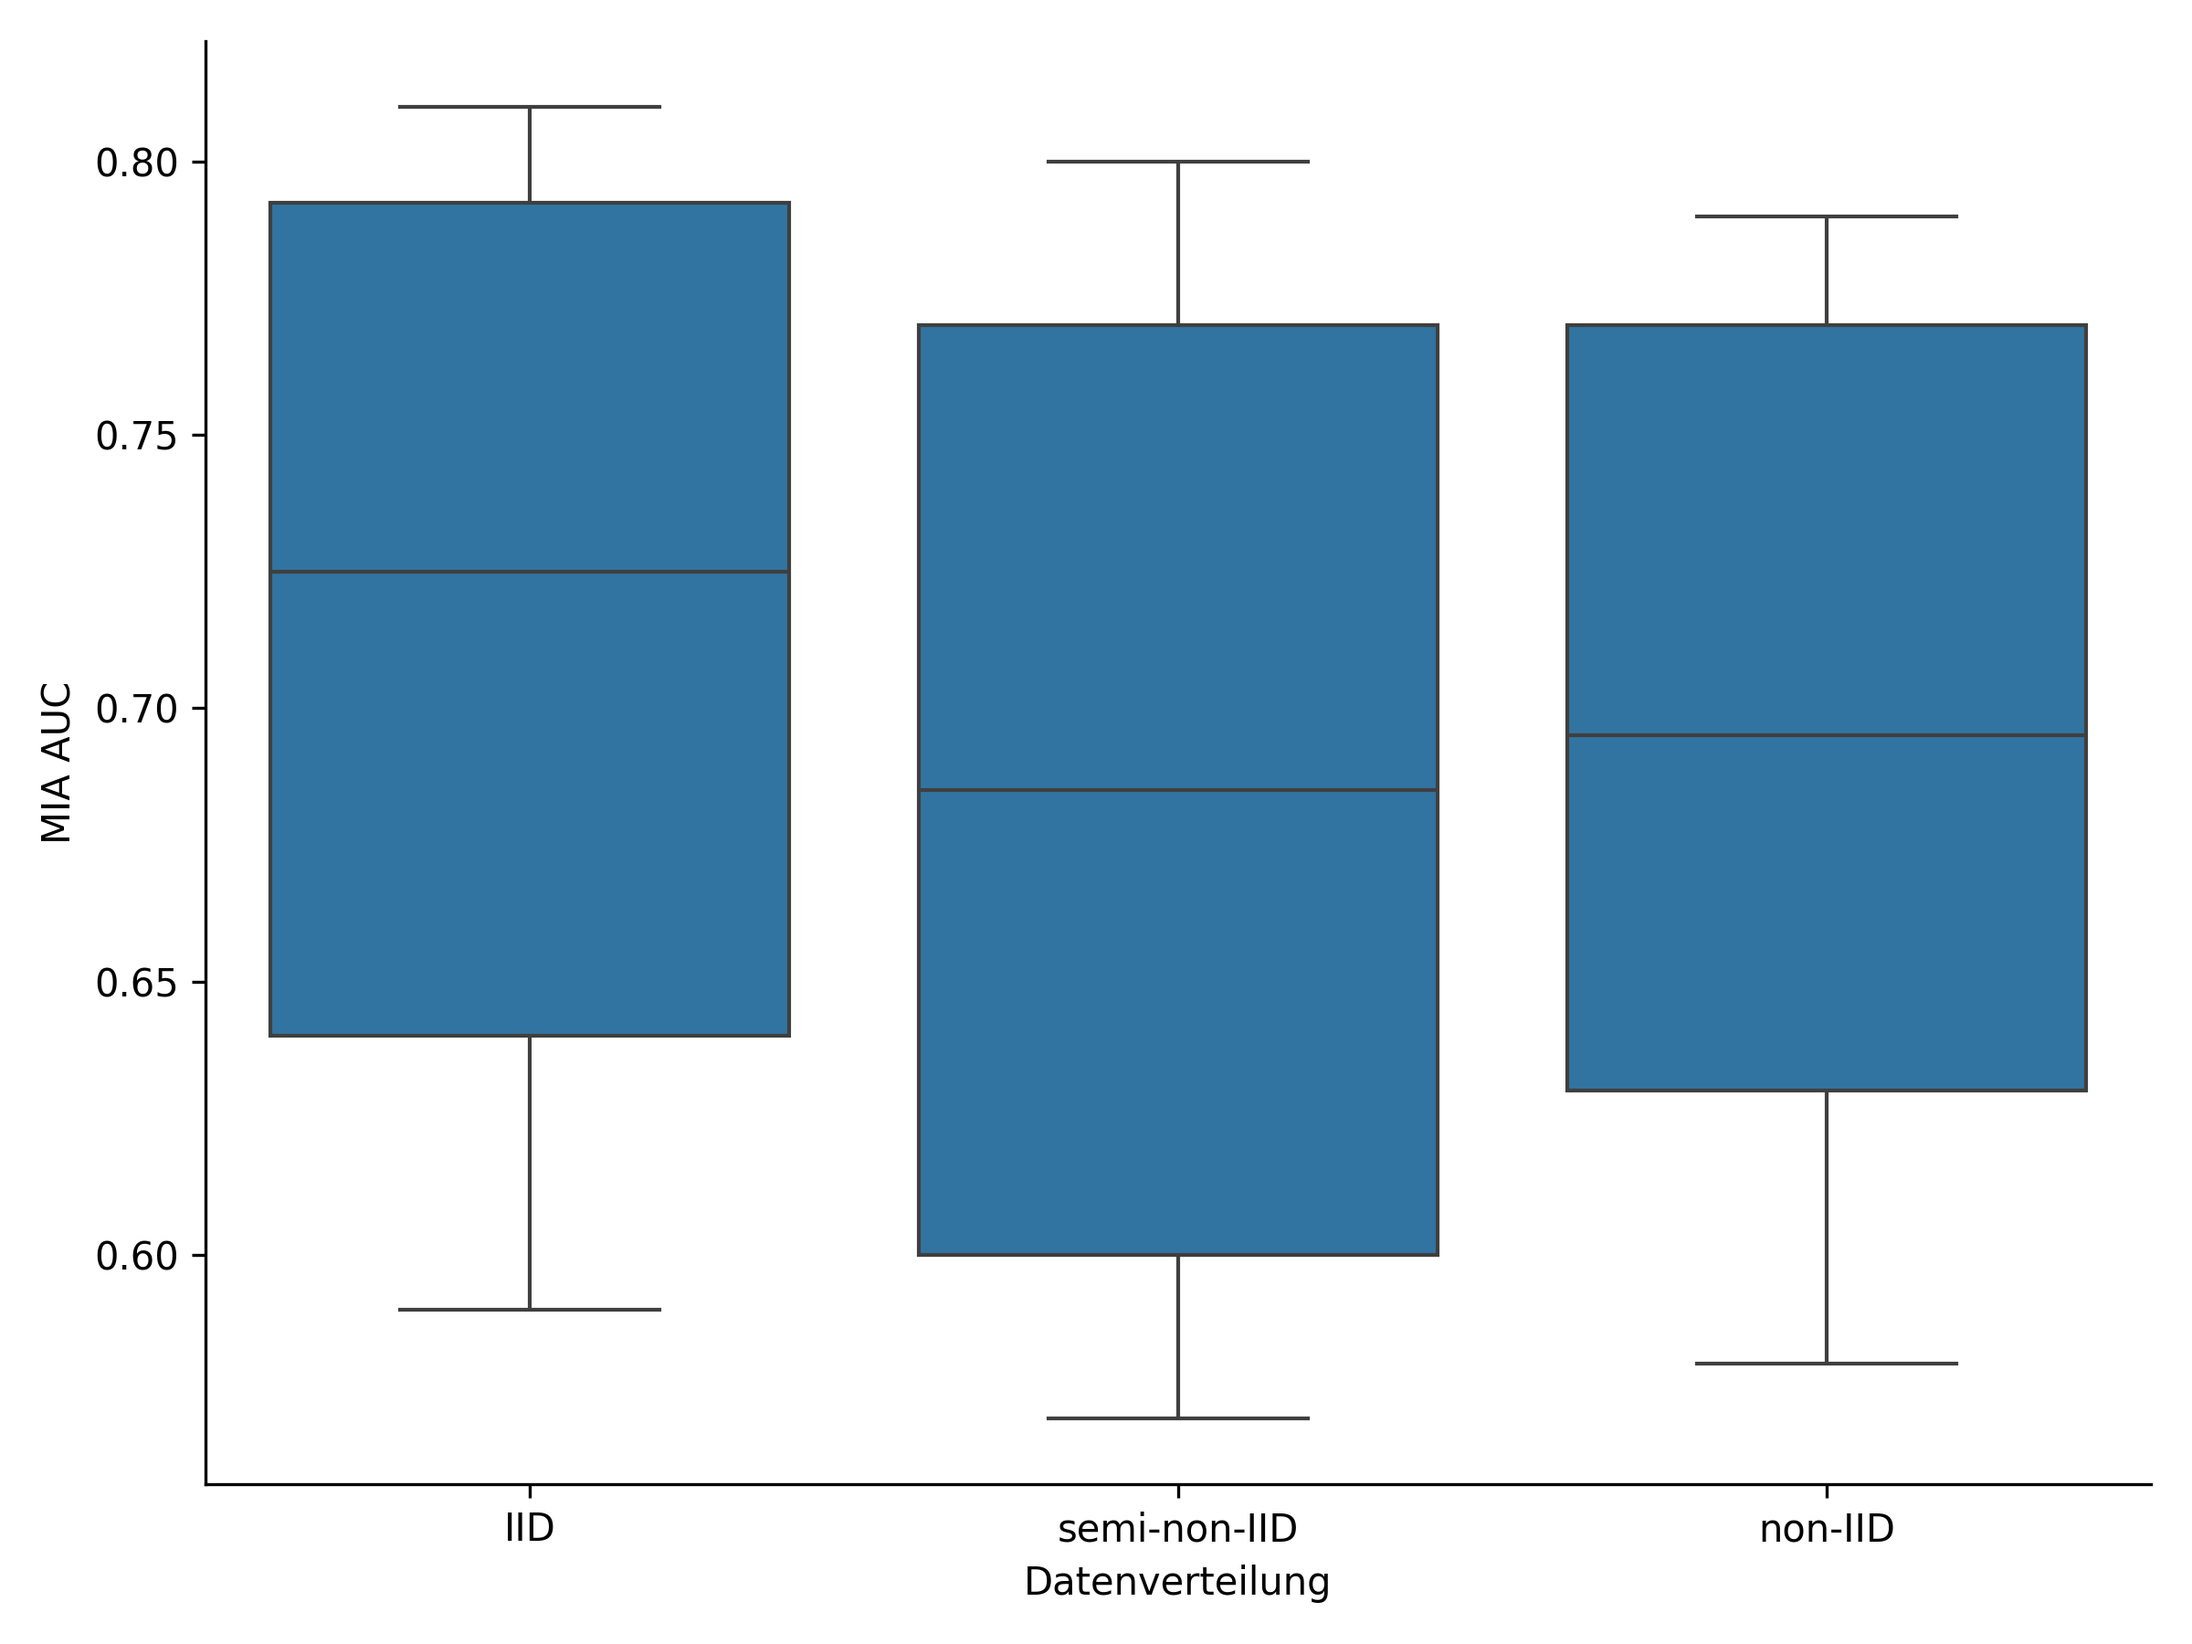
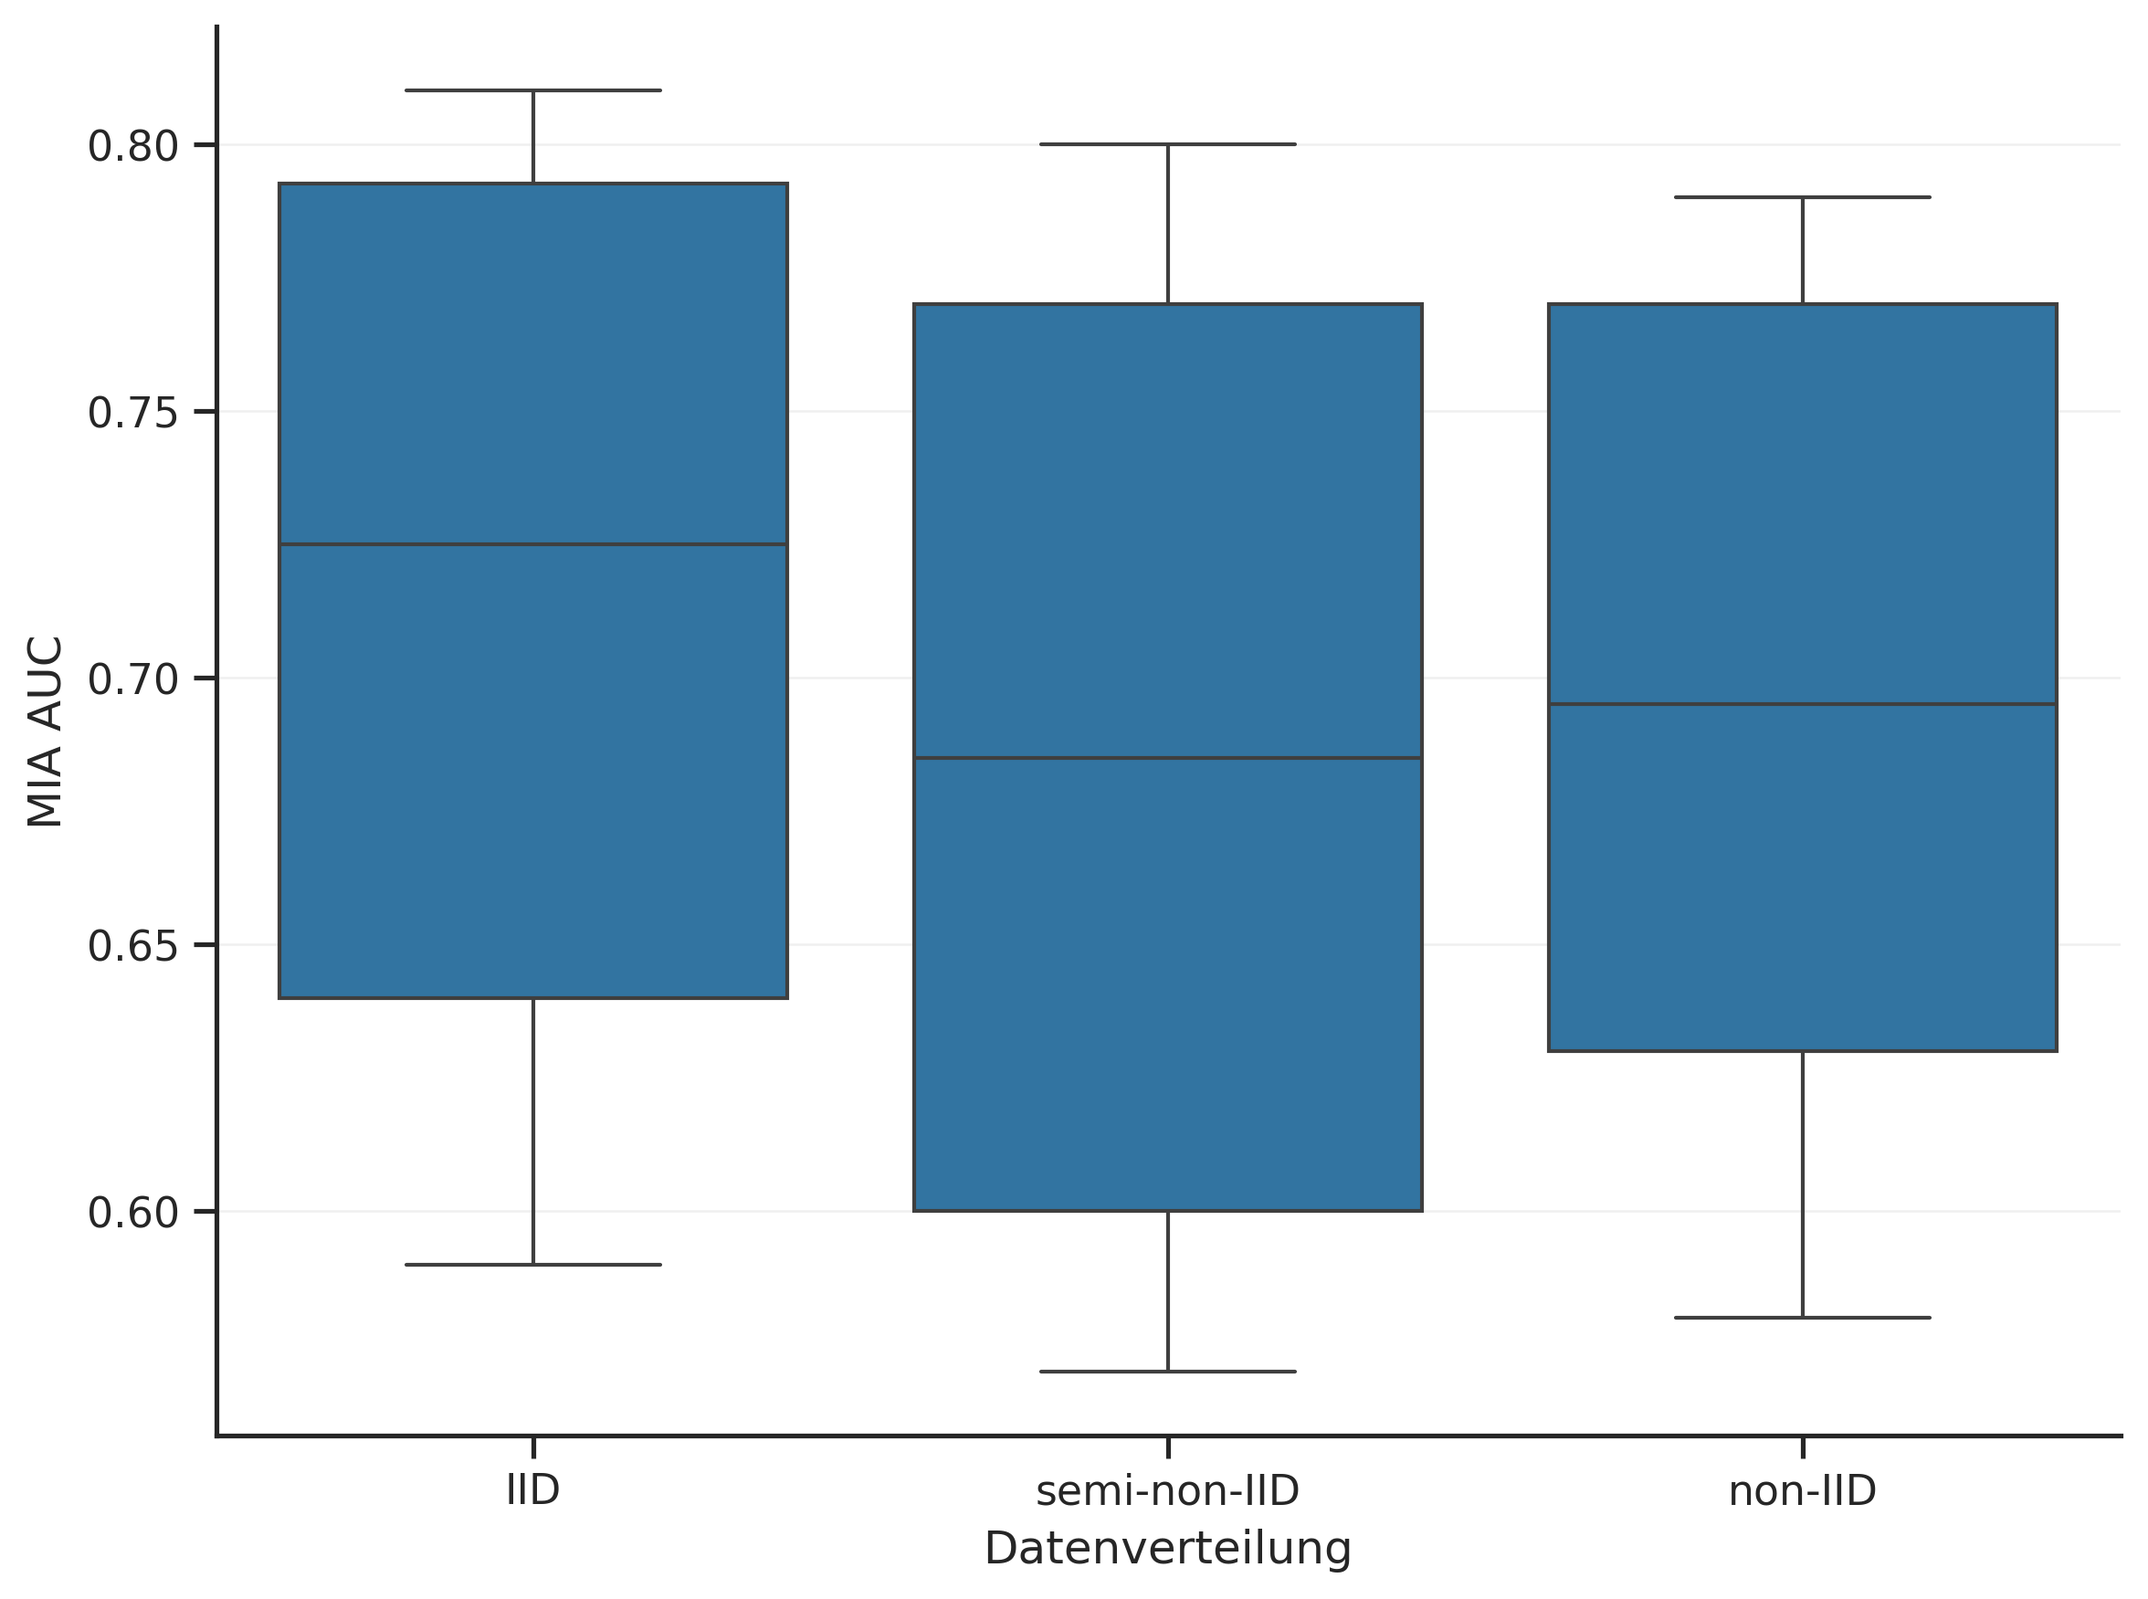
- add global figure style config - update figure styles

diff --git a/experiments_data_analysis/create_figures/main_experiments/create_figures_utils.py b/experiments_data_analysis/create_figures/main_experiments/create_figures_utils.py
@@ -7,7 +7,6 @@ from pathlib import Path
 
 def plot_parameter_per_model(dataset: pd.DataFrame, x_value: Col, x_label: str, figures_dir: Path,
                              order: list[str] = None) -> None:
-    plt.figure(figsize=(12, 5))
     g = sns.catplot(
         data=dataset,
         x=x_value,
@@ -29,18 +28,19 @@ def plot_parameter_per_model(dataset: pd.DataFrame, x_value: Col, x_label: str, 
     for ax, model_name in zip(g.axes.flat, g.col_names):
         nice_title = new_titles.get(model_name, model_name)
         ax.set_title(nice_title)
-    plt.savefig(figures_dir / f"per_model_{x_value.value}.png", dpi=300)
+        ax.grid(axis="y", linestyle="-", linewidth=0.6, alpha=0.3)
+
+    g.figure.savefig(figures_dir / f"per_model_{x_value.value}.png", dpi=300)
     plt.close()
 
 def create_analysis_figures_both_models(dataset: pd.DataFrame, x_value: Col, x_label: str, figures_dir: Path,
                                         order: list[str] = None) -> None:
-    plt.figure(figsize=(8, 6))
+    plt.figure()
     sns.boxplot(data=dataset, x=x_value, y=Col.METRICS_AUC, order=order)
     plt.xlabel(x_label)
     plt.ylabel("MIA AUC")
     ax = plt.gca()
-    ax.spines['right'].set_visible(False)
-    ax.spines['top'].set_visible(False)
+    ax.grid(axis="y", linestyle="-", linewidth=0.6, alpha=0.3)
     plt.tight_layout()
     plt.savefig(figures_dir / f"both_models_effect_{x_value.value}.png", dpi=300)
     plt.close()
@@ -54,13 +54,22 @@ def create_analysis_figures_correlation(dataset: pd.DataFrame, x_value: Col, x_l
         ],
         diag_kind="kde"
     )
+
     axes = g.axes  # rename axis
+    axes[0, 0].grid(axis="both", linestyle="-", linewidth=0.6, alpha=0.3)
+    axes[0, 1].grid(axis="both", linestyle="-", linewidth=0.6, alpha=0.3)
+    axes[1, 0].grid(axis="both", linestyle="-", linewidth=0.6, alpha=0.3)
+    axes[1, 1].grid(axis="both", linestyle="-", linewidth=0.6, alpha=0.3)
+
     axes[0, 0].set_ylabel(x_label)
     axes[0, 1].set_ylabel(x_label)
     axes[1, 0].set_xlabel(x_label)
     axes[1, 0].set_ylabel(y_label)
     axes[1, 1].set_xlabel(y_label)
-    g.figure.subplots_adjust(top=0.95)  # increase or decrease top margin
+
+    g.figure.tight_layout()
+    g.figure.subplots_adjust(right=1.2)
+
     y_label = y_label.replace(" ", "_").replace(".", "")
     g.savefig(figures_dir / f"pairplot_overfitting_auc_{y_label}.png", dpi=300)
     plt.close()
@@ -68,10 +77,9 @@ def create_analysis_figures_correlation(dataset: pd.DataFrame, x_value: Col, x_l
 
 def create_heatmap(dataset: pd.DataFrame, col_names: list[Col], labels: list[str], figures_dir: Path) -> None:
     corr = dataset[col_names].corr()
-    plt.figure(figsize=(8, 6))
+    plt.figure()
     ax = sns.heatmap(corr, annot=True, cmap="coolwarm", fmt=".2f")
     ax.set_xticklabels(labels, rotation=45, ha="right")
-
     ax.set_yticklabels(labels, rotation=0)
     plt.tight_layout()
     plt.savefig(figures_dir / "heatmap_overfitting_auc.png", dpi=300)

diff --git a/experiments_data_analysis/get_wandb_data.py b/experiments_data_analysis/get_wandb_data.py
@@ -2,26 +2,29 @@ from experiments_data_analysis.file_name_settings import WANDB_ENTITY, WANDB_PRO
     METRICS_ANALYSIS, WANDB_PROJECT_FLOWER_SIDE_CLIENTS, WANDB_PROJECT_MIA_SIDE_CLIENTS, WANDB_PROJECT_MIA_MAIN, \
     WANDB_PROJECT_FLOWER_MAIN
 from experiments_data_analysis.get_wandb_metrics_and_plots.get_metric_data import get_wandb_metrics_and_plots
+from plot_style import use_thesis_style
 
-# --- main experiments ---
-get_wandb_metrics_and_plots(
-    entity=WANDB_ENTITY,
-    project=WANDB_PROJECT_FLOWER_MAIN,
-    output_path=METRICS_ANALYSIS / "main_experiments" / "flower",
-    flower_run=True
-)
-get_wandb_metrics_and_plots(
-    entity=WANDB_ENTITY,
-    project=WANDB_PROJECT_MIA_MAIN,
-    output_path=METRICS_ANALYSIS / "main_experiments" / "mia"
-)
+use_thesis_style()
 
-# --- side experiments - shadow models ---
-get_wandb_metrics_and_plots(
-    entity=WANDB_ENTITY,
-    project=WANDB_PROJECT_MIA_SIDE_SHADOW_MODELS,
-    output_path=METRICS_ANALYSIS / "side_experiments_shadow_models" / "mia"
-)
+# # --- main experiments ---
+# get_wandb_metrics_and_plots(
+#     entity=WANDB_ENTITY,
+#     project=WANDB_PROJECT_FLOWER_MAIN,
+#     output_path=METRICS_ANALYSIS / "main_experiments" / "flower",
+#     flower_run=True
+# )
+# get_wandb_metrics_and_plots(
+#     entity=WANDB_ENTITY,
+#     project=WANDB_PROJECT_MIA_MAIN,
+#     output_path=METRICS_ANALYSIS / "main_experiments" / "mia"
+# )
+#
+# # --- side experiments - shadow models ---
+# get_wandb_metrics_and_plots(
+#     entity=WANDB_ENTITY,
+#     project=WANDB_PROJECT_MIA_SIDE_SHADOW_MODELS,
+#     output_path=METRICS_ANALYSIS / "side_experiments_shadow_models" / "mia"
+# )
 
 # --- side experiments - clients ---
 get_wandb_metrics_and_plots(

diff --git a/experiments_data_analysis/get_wandb_metrics_and_plots/create_wandb_mia_plots.py b/experiments_data_analysis/get_wandb_metrics_and_plots/create_wandb_mia_plots.py
@@ -20,16 +20,15 @@ def log_per_class_metrics2(run_folder: Path, images_folder: Path, class_names: l
     for metric in metrics:
         values = [per_class_metrics[cls].get(metric, 0.0) for cls in class_keys]
 
-        plt.figure(figsize=(8, 6))
-        plt.bar(class_names, values, color='#1f77b4', edgecolor='black', alpha=1.0)
-        ax = plt.gca()
-        ax.spines['right'].set_visible(False)
-        ax.spines['top'].set_visible(False)
+        plt.figure()
+        plt.bar(class_names, values)
+
         plt.xlabel("Klasse")
         plt.ylabel(metric)
         plt.xticks(rotation=45)
         plt.ylim(0, 1.0)
         plt.grid(axis="y", linestyle="-", linewidth=0.6, alpha=0.3)
+
         plt.tight_layout()
         plt.savefig(images_folder / f"per_class_{metric}_metrics2.png", dpi=300, bbox_inches="tight")
         plt.close()
@@ -55,16 +54,12 @@ def log_overall_metrics_with_error_bars2(
     stds = [metrics_summary[m]["std"] for m in metrics_names]
 
     # Create the plot
-    plt.figure(figsize=(8, 6))
+    plt.figure()
     bars = plt.bar(
         metrics_names, means,
         yerr=stds, capsize=6,
-        color='#1f77b4', edgecolor='black', alpha=1.0
+        edgecolor='black', alpha=1.0
     )
-
-    ax = plt.gca()
-    ax.spines['right'].set_visible(False)
-    ax.spines['top'].set_visible(False)
 
     plt.ylabel("Metrikwert")
     plt.xlabel("Angriffsmetrik")
@@ -82,6 +77,7 @@ def log_overall_metrics_with_error_bars2(
             ha='center', va='bottom', fontsize=9
         )
 
+    plt.tight_layout()
     plt.savefig(images_folder / "overall_metrics_with_error_bars2.png", dpi=300)
     plt.close()
 

diff --git a/experiments_data_analysis/plot_style.py b/experiments_data_analysis/plot_style.py
@@ -1,0 +1,61 @@
+import matplotlib as mpl
+import seaborn as sns
+
+COLOR_PALETTE = [
+    "#1f77b4",  # blue (main color)
+    "#D55E00",  # orange
+    "#009E73",  # green
+    "#CC79A7",  # magenta
+    "#F0E442",  # yellow
+    "#333333",  # dark grey
+]
+
+def use_thesis_style():
+    mpl.rcParams.update({
+        # Size & Borders
+        "figure.figsize": (8, 6),
+        "figure.dpi": 300,
+
+        # Axes
+        "axes.spines.top": False,
+        "axes.spines.right": False,
+
+        # Axes Ticks
+        "xtick.major.size": 6,
+        "xtick.major.width": 1.0,
+        "ytick.major.size": 6,
+        "ytick.major.width": 1.0,
+
+        # Grids
+        "axes.grid": True,
+        "axes.grid.axis": "y",
+        "grid.linestyle": "-",
+        "grid.linewidth": 0.6,
+        "grid.alpha": 0.3,
+
+        # Lines and Markers
+        "lines.linewidth": 2.0,
+        "lines.markersize": 6,
+        "axes.prop_cycle": mpl.cycler(color=COLOR_PALETTE),
+
+        # Fonts
+        "font.size": 11,
+        "axes.labelsize": 12,
+        "xtick.labelsize": 11,
+        "ytick.labelsize": 11,
+
+        # Save
+        "savefig.bbox": "tight",
+    })
+
+    # Seaborn
+    sns.set_theme(
+        style="ticks",
+        palette=COLOR_PALETTE,
+        rc={
+            "axes.spines.top": False,
+            "axes.spines.right": False,
+            "xtick.minor.visible": False,
+            "ytick.minor.visible": False,
+        },
+    )

diff --git a/experiments_data_analysis/get_wandb_metrics_and_plots/create_wandb_flower_plots.py b/experiments_data_analysis/get_wandb_metrics_and_plots/create_wandb_flower_plots.py
@@ -42,22 +42,17 @@ def generate_flower_plots_for_run(run, run_folder: Path, images_folder: Path) ->
 
         y = df[metric_name]
 
-        fig, ax = plt.subplots(figsize=(8, 6))
-
-        ax.plot(x, y, color="#1f77b4", linewidth=2.2)
-
-        # Achsen-Stil
-        ax.spines["right"].set_visible(False)
-        ax.spines["top"].set_visible(False)
+        fig, ax = plt.subplots()
+        ax.plot(x, y)
 
         # y-Limit für Metriken in [0, 1]
         if metric in metrics_from_0_to_1:
             ax.set_ylim(0, 1.02)
 
         # Beschriftungen
-        ax.set_xlabel(x_label, fontsize=12)
+        ax.set_xlabel(x_label)
         ylabel = Col[metric.name].value
-        ax.set_ylabel(ylabel, fontsize=12)
+        ax.set_ylabel(ylabel)
 
         # Grid + Ticks
         ax.grid(axis="y", linestyle="-", linewidth=0.6, alpha=0.3)

diff --git a/experiments_data_analysis/create_figures/side_experiments_shadow_models/create_shadow_model_number_figures.py b/experiments_data_analysis/create_figures/side_experiments_shadow_models/create_shadow_model_number_figures.py
@@ -7,7 +7,7 @@ import pandas as pd
 def create_shadow_model_number_figures(data_path: Path, figures_dir: Path):
     overview_table = pd.read_csv(data_path)
 
-    plt.figure(figsize=(8, 6))
+    plt.figure()
 
     # Ensure numeric x-axis
     overview_table[Col.NUM_SHADOW_MODELS] = overview_table[Col.NUM_SHADOW_MODELS].astype(int)
@@ -36,7 +36,15 @@ def create_shadow_model_number_figures(data_path: Path, figures_dir: Path):
                 marker="o",
                 label=label,
             )
-
+    ax = plt.gca()
+    ax.grid(
+        True,
+        which="major",
+        axis="both",
+        linestyle="-",
+        linewidth=0.6,
+        alpha=0.4,
+    )
     plt.xlabel("Anzahl der Shadow Models")
     plt.ylabel("MIA AUC")
     plt.xticks([1, 3, 10, 20])

diff --git a/experiments_data_analysis/get_wandb_metrics_and_plots/get_metric_data.py b/experiments_data_analysis/get_wandb_metrics_and_plots/get_metric_data.py
@@ -42,8 +42,9 @@ def get_wandb_metrics_and_plots(
         if flower_run:
             generate_flower_plots_for_run(run, run_folder, images_folder)
         else:
+            class_names = ['airplane', 'automobile', 'bird', 'cat', 'deer', 'dog', 'frog', 'horse', 'ship', 'truck']
             log_per_class_metrics2(run_folder=run_folder, images_folder=images_folder,
-                                   class_names=run.config.parameters.class_names)
+                                   class_names=class_names)
             log_overall_metrics_with_error_bars2(run_folder=run_folder, images_folder=images_folder)
 
     print("\nDone!")

diff --git a/experiments_data_analysis/run_main_data_analysis.py b/experiments_data_analysis/run_main_data_analysis.py
@@ -8,6 +8,9 @@ from experiments_data_analysis.create_figures.main_experiments.seaborn_figures_c
 from experiments_data_analysis.file_name_settings import WANDB_ENTITY, WANDB_PROJECT_MIA_MAIN
 from experiments_data_analysis.file_name_settings import WANDB_PROJECT_FLOWER_MAIN, DATA_SUBDIR_MAIN, FIGURES_DIR, \
     FLOWER_DATA_PATH, MIA_DATA_PATH, MERGED_DATA_FILE_PATH, FIGURES_DIR_MAIN
+from experiments_data_analysis.plot_style import use_thesis_style
+
+use_thesis_style()
 
 # Ensure figures directory exists
 os.makedirs(DATA_SUBDIR_MAIN, exist_ok=True)

diff --git a/experiments_data_analysis/run_side_data_analysis.py b/experiments_data_analysis/run_side_data_analysis.py
@@ -14,6 +14,10 @@ from experiments_data_analysis.file_name_settings import WANDB_ENTITY, FIGURES_D
     WANDB_PROJECT_MIA_SIDE_CLIENTS, DATA_SUBDIR_CLIENTS, WANDB_PROJECT_FLOWER_SIDE_CLIENTS, MIA_SIDE_CLIENTS_DATA_PATH, \
     FLOWER_SIDE_CLIENTS_DATA_PATH, MERGED_SIDE_CLIENTS_DATA_FILE_PATH, FIGURES_DIR_CLIENTS, MIA_SIDE_SHADOW_DATA_PATH, \
     FIGURES_DIR_SHADOW, MIA_SIDE_SHADOW_DATA_OVERVIEW
+from plot_style import use_thesis_style
+
+use_thesis_style()
+
 
 # Ensure figures directory exists
 os.makedirs(DATA_SUBDIR_SHADOW, exist_ok=True)

diff --git a/experiments_data_analysis/create_figures/side_experiments_clients/create_client_num_figures.py b/experiments_data_analysis/create_figures/side_experiments_clients/create_client_num_figures.py
@@ -13,7 +13,7 @@ def create_client_num_figures(
     # Filter for the two models you want
     df_plot = df[df['model'].isin(['Shokri-CNN', 'ResNet-18'])]
 
-    plt.figure(figsize=(8, 6))
+    plt.figure()
 
     sns.lineplot(
         data=df_plot,
@@ -25,7 +25,7 @@ def create_client_num_figures(
 
     plt.xlabel("Anzahl der Clients")
     plt.ylabel("MIA AUC")
-    plt.legend(title="Modell")
+    plt.legend(title="Modell", loc="center left", bbox_to_anchor=(1.02, 0.5))
     plt.grid(True)
     plt.tight_layout()
 
